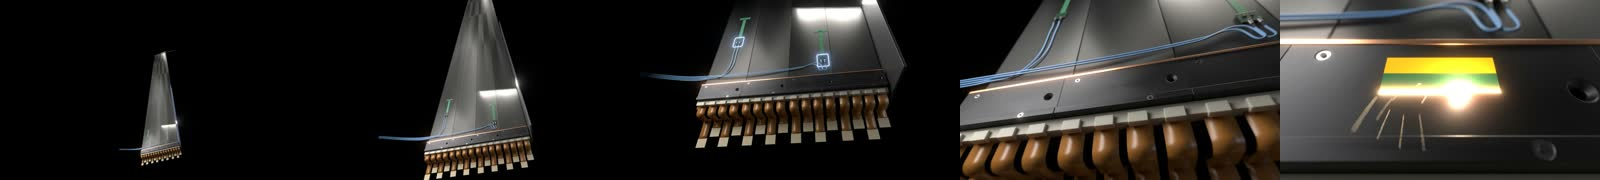
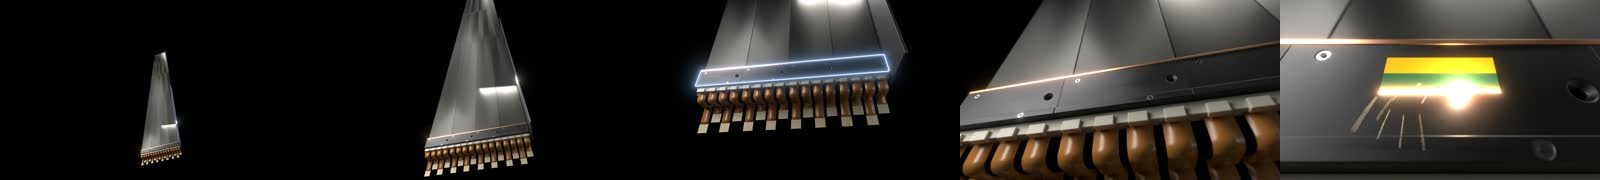
feat(innoday): the light-injection clip's dust strip for the cold-box version
Claude-Session: https://claude.ai/code/session_01LomYF1saeBXf9UwwiHvwyK

diff --git a/talks/2026_10_23_Innoday/CLAUDE.md b/talks/2026_10_23_Innoday/CLAUDE.md
@@ -369,8 +369,9 @@ Dated detail in `HANDOFF.md`. The ones a later session must not undo:
     object `lhcRing`, emblems.js; not at true scale), Point 8 marked, „Ačiū“ inside the
     ring at 49 s (hero/close_path.py). The flag's grains turn to face the camera
     (lisGrains.js): side on, the cold box's flag was seen edge-on.
-  - The light-injection clip is ~20 s: the whole SciFi module, a slow pan down, the boards'
-    blue outline glow while he names them (no text), the engraving, today's last frame
+  - The light-injection clip is ~20 s: the whole SciFi module, a slow pan down, the cold box's
+    blue outline glow while he names the system (no text; owner: "The light injection system is
+    within this black coldbox, no need for blue cables": no boards or fibres on the mats), the engraving, today's last frame
     ("show the full SciFi module panning slowly … on the bottom I indicate the light
     injection system"; chose "Re-rendered clip" and "Glow outline, no text").
   - The cover is the real CMS collision (record 300, the 2012 Higgs candidate), filling the
